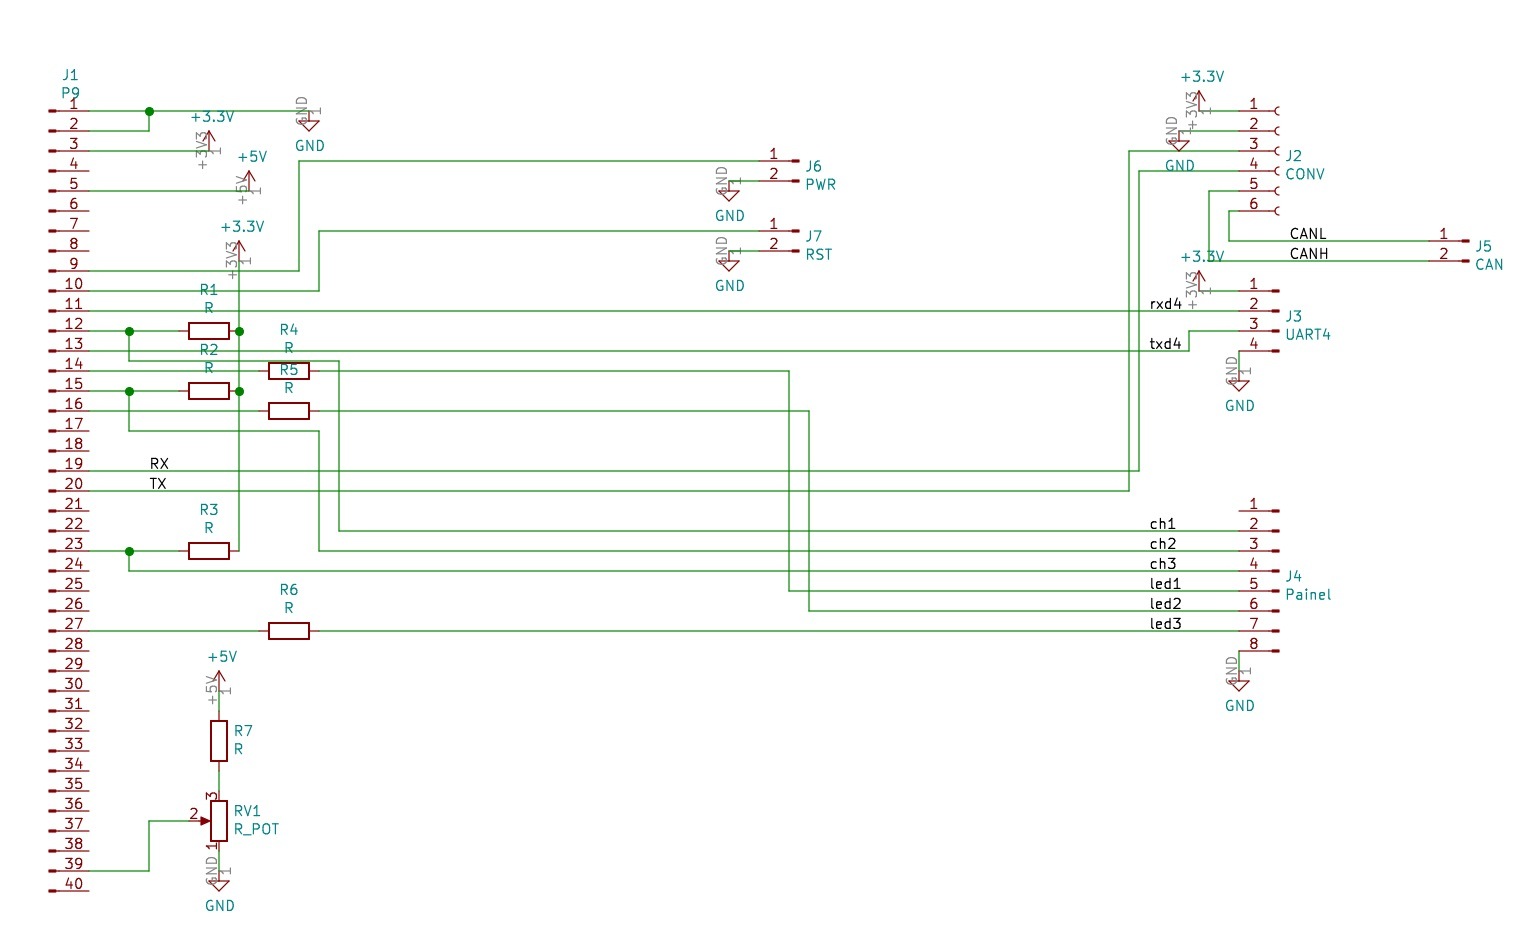
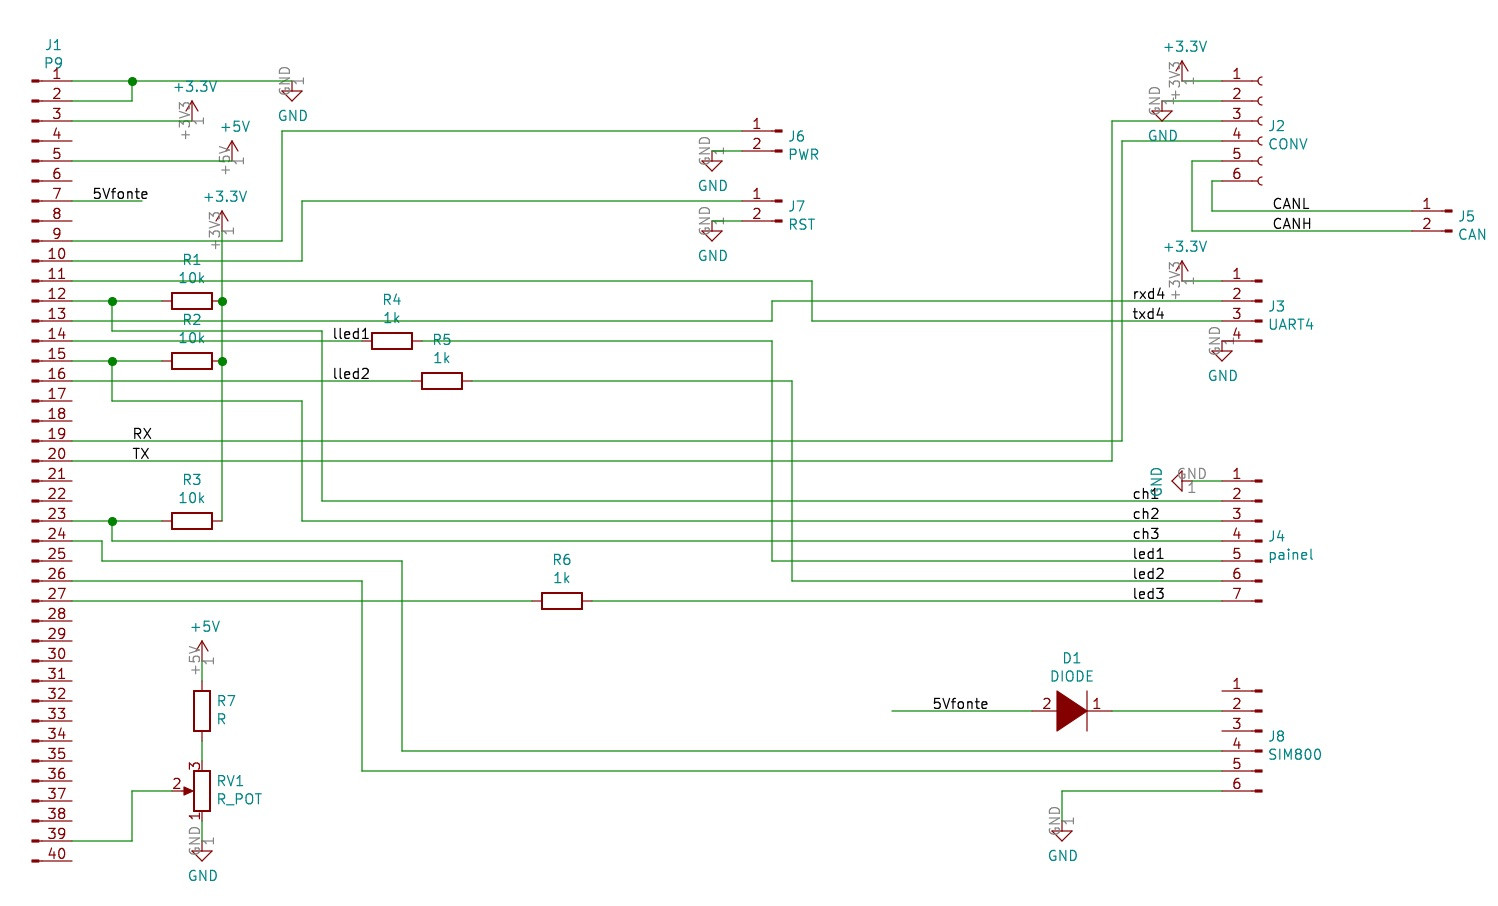
adicionando GSM SIM800L

Changed region(s): [[0.0307, 0.0309, 1.0, 0.989], [0.6142, 0.7108, 0.737, 0.8035], [0.7063, 0.8653, 0.737, 0.9581]]

diff --git a/README.md b/README.md
@@ -197,6 +197,9 @@ Os pinos usados são:
 | GPIO 51 | Led 2    para GND | P9 - 16  | 
 | GPIO 125 | Led 3    para GND | P9 - 27  | 
 | AIN0    | Monitorar a tensão Vcc | P9 - 39 |
+| UART 1 TXD | Serial SIM800   | P9 - 24 |
+| UART 1 RXD | Serial SIM800   | P9 - 26 | 
+
 
 Ordem numerico
 
@@ -218,27 +221,17 @@ Ordem numerico
 | CAN 0 RX | Barramento CAN | P9 - 19 |
 | CAN 0 TX | Barramento CAN | P9 - 20 |
 | GPIO 49 | Chave 2  para GND | P9 - 23  | 
+| UART 1 TXD | Serial SIM800   | P9 - 24 |
+| UART 1 RXD | Serial SIM800   | P9 - 26 | 
 | GPIO 125 | Led 3    para GND | P9 - 27  | 
 | AIN0    | Monitorar a tensão Vcc | P9 - 39 |
 
 
-A ligação da bateria Litium 18650 tem os seguintes pinos
-
-
-| Beagle  | Designação            | pinos | 
-|:--------|:---------------:|:-----:|
-| Battery | Battery connection pint | TP5 | 
-| Sense   | Battery voltage sense input, connecto to battery terminal  | TP6 | 
-| TS | Temperature sense input  (termistor) | TP7 | 
-| GND  | System ground  | TP8 | 
-
-[Tutorial para ligar a bateria 1 ](http://beaglebone-asterisk.raspbx.org/uninterruptible-power-supply-ups-for-beaglebone-black-a-diy-project/)
-
-[Tutorial para ligar a bateria 2](https://community.element14.com/products/devtools/single-board-computers/next-genbeaglebone/b/blog/posts/bbb---rechargeable-on-board-battery-system)
 
 A placa de interface para ligar o BBB com a interface CAN é dado no esquema a seguir.
 
 ![](figuras/Placa_piggi_back_BBB.jpg)
+
 
 A montagem do OBC será no dashboard do veículo . 
 A vista frontal do OBC é mostrado a seguir. 
@@ -249,7 +242,27 @@ A vista de cima mostra a placa de instrumentação ao lado do computador de bord
 
 ![](fotos/Cima_OBC_GG.jpg)
 
-### 3.2.1. Configuração do BBB
+### 3.2.1 Bateria Litium  Nobreak
+
+O BBB tem um conector na placa para ligar uma bateria Litium 18650 e um termistor para monitorar a temperatura da bateria e que tem os seguintes pinos
+
+
+| Beagle  | Designação            | pinos | 
+|:--------|:---------------:|:-----:|
+| Battery | Battery connection pint | TP5 | 
+| Sense   | Battery voltage sense input, connecto to battery terminal  | TP6 | 
+| TS | Temperature sense input  (termistor) | TP7 | 
+| GND  | System ground  | TP8 | 
+
+Os pinos TP5 e TP6 foram interligados (curto) e para emular o termistor foi colocado um resistor de 10K Ohms entre os terminais TP8 e TP7.
+O conector positivo da bateria foi colocado no TP5 e TP6 enquanto o pino negativo foi colocado no TP8.
+
+[Tutorial para ligar a bateria 1 ](http://beaglebone-asterisk.raspbx.org/uninterruptible-power-supply-ups-for-beaglebone-black-a-diy-project/)
+
+[Tutorial para ligar a bateria 2](https://community.element14.com/products/devtools/single-board-computers/next-genbeaglebone/b/blog/posts/bbb---rechargeable-on-board-battery-system)
+
+
+### 3.2.2. Configuração do CAN do BBB
 
 A configuração BBB para habilitar o CAN BUS é diferente do [Pocket Beagle ](https://github.com/Tecnomobele-FGA/Computador-de-bordo).
 
@@ -283,7 +296,68 @@ echo "Pinos de CAN0 configurados!..."
 
 Este programa tem que ser executado com superusário.
 
+### 3.2.3. Configurando o GPS
 
+O GPS usado é o Módulo GPS GY-NEO6MV2 mostrado na foto a seguir. 
+
+![](fotos/Foto_GPS.jpg)
+
+Ele está ligado na porta serial UART4. 
+
+O módulo GPS tem as seguintes características.
+
+* Alimentação: de 3,3 V à 5 V DC
+* Corrente de operação: entre 35 mA e 50 mA
+* Comunicação serial/TTL 3.3V
+* Antena embutida
+
+
+| Pino | 	Função no GPS | Ligação Beagle Bone Black |
+|:----:|:--------------:|:--------------:|
+| 1 | Vcc    | Vcc pino P9-3 |
+| 2 | RX in  | TX4 pino P9-13 |
+| 3 | TX out | RX4 pino P9-11 |
+| 4 | GND    | GND pino P9-1 |
+
+Observe que o TX do Beagle entre no RX do GPS, pois o GPS está funcionando como equipamento de terminal de dados e por isso o cabo tem que ser cruzado ou do tipo *cross-over*
+
+Para usar a porta serial é preciso verificar se a porta serial está instalada no kernel e isso pode se conferir com o comando `dmesg | grep tty`
+
+O próximo passo é configurar o sistema operacional para acessar as portas. 
+Este procedimento pode ser feito de duas formas. 
+A primeira é configurar os pinos da porta serial por meio do `confog-pin` conforme o trecho a seguir.
+
+```
+config-pin P9.11 uart
+config-pin P9.13 uart
+```
+
+Outra opção é incluir no arquivo `/boot/uEnv.txt` o seguinte trecho de comandos : 
+
+```
+enable_uboot_overlays=1
+### Habiltando serial 4 Rudi
+uboot_overlay_addr2=/lib/firmware/BB-UART4-00A0.dtbo
+```
+
+Estes dois procedimentos são excludentes, ou seja, pode se usar somente uma opção. 
+Optei para o primeiro que é mais flexível.
+
+
+### 3.2.4. Modem GPRS SIM800L
+
+Uma opção para melhorar a rede de dados foi introduzir um modem 
+
+![](fotos/Foto_SIM800L.jpg)
+
+| Pino | 	Função no SIM800L | Ligação Beagle Bone Black |
+|:----:|:--------------:|:--------------:|
+| 1 | Antenna | 
+| 2 | Vdd -5V | Vcc pino P9-5 (Diode) |
+| 3 | Reset   | 
+| 3 | RX      | UART TX1 pino P9-24 |
+| 4 | TX      | UART RX1 pino P9-26 |
+| 6 | GND     | GND pino P9-1 |
 
 ## 3.3. Módulo de sinalização
 
@@ -306,7 +380,10 @@ O módulo de instrumantação tem um Arduino Nano como microcontrolador.
 O programa usa a biblioteca CAN da 
 [travis-ci Arduino MCP2515 CAN interface library](https://travis-ci.org/autowp/arduino-mcp2515).
 
+Uma cópia do programa está na pasta `/home/debian/src/Arduino/BREletrica_Sensor_Can_LCD_2022.ino` do Beagle Bone Black. 
+
 O programa basicamente mede os dados velocidade e dados elétricos e mostra no display a cada ciclo do programa principal e a cada 500 milisegundos disponibiliza estes dados no barramento CAN por meio de um datagram conforme mostrado no trecho do programa principal do Arduino.
+
 
 
 ```
@@ -353,7 +430,7 @@ void loop(void) {
  }
 } 
 ```
-O programa garante que as duas datagramas não são inseridos um aoutras do outro no barramento para garantr tempo de processamento ao computador de bordo.
+O programa garante que as duas datagramas não são inseridos um apos a outra no barramento para garantr tempo de processamento ao computador de bordo.
 A velcidade de comunicação é de 125kbps. 
 
 O formato das mensagens foi baseado no J1939 usado no BRELétrico e o dicionário de dados se encontra no arquivo `src/DBC/BRELETmotorV2.dbc`    
@@ -369,6 +446,45 @@ Além disso, o programa também precisa disponibilizar os dados para acesso via 
 
 Escolheu-se usar o sistema gerenciador de banco de dados MariaDB que implementa o padrão SQL.
 O OBC neste caso foi configurado como servidor de banco de dados e pode receber requisições via comandos SQL pela internet.
+
+## 4.2.1. Configurando o banco de dados
+
+O procedimento para configurar o banco de dados é baseado no [tutorial neste link](https://github.com/Tecnomobele-FGA/Computador-de-bordo/tree/master/Datalogger_Scada)
+
+Entretanto o nome do banco do dados mudamos para `trajetorio`.
+
+```
+MariaDB [(none)]> create database trajetorio;
+MariaDB [(none)]> use trajetorio;
+```
+
+
+Quando o chave1 está habilitado o OBC grava os dados do trajetório no banco de dados com uma frequencia de pelo menos um registro por segundo. 
+
+O GPS disponibiliza o dado a cada segundo, enquanto o CAN envio os dados a cada 500 ms. 
+
+Uma opção é juntar os dados do GPS e do CAN em um registro. 
+
+
+```
+MariaDB [trajetorio]> create table  registro_trajeto (hora timestamp, latitude float, longitude float, velocidade_gps float , velocidade float , tensao float , corrente float ); 
+```
+
+
+Uma outra opção 
+e criar duas tabelas separadas, uma para o GPS e outro para a CAN e ainda outrs, cada um com sua taxa de amostragem própria.
+
+```
+MariaDB [trajetorio]> create table registro_GPS (hora timestamp(3), latitude float, longitude float, velocidade_gps float , altitude float );
+MariaDB [trajetorio]> create table registro_bateria (hora timestamp(3), tensao float, corrente float, temperatura float ); 
+MariaDB [trajetorio]> create table registro_auxiliar (hora timestamp(3), tensao_aux float, corrente_aux float, energia_aux float ); 
+```
+
+Veja que o `timestamp(3)` para poder gravar fraçoes de segundos no banco.
+
+Neste último caso, vou ter que fazer um pos-processamento dos dados gravados no MariaDB para sincronizar as diversas tabelas.  
+
+## 4.2.2. Modbus-IP tempo real
 
 Para a comunicação em tempo real, escolheu-se o protocolo MODBUS-IP onde o OBC funciona como estação escravo.
 
